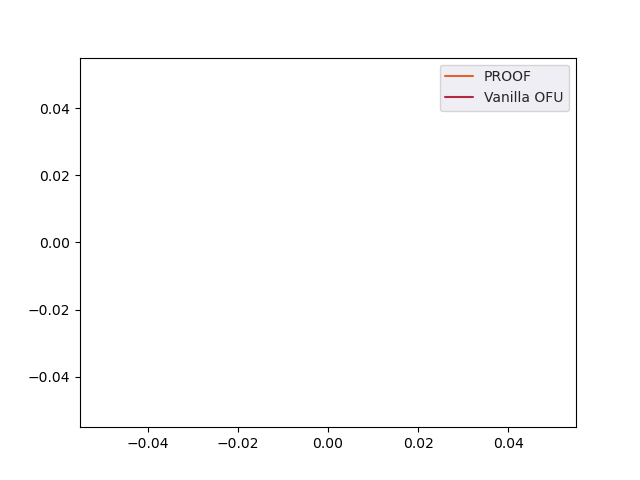
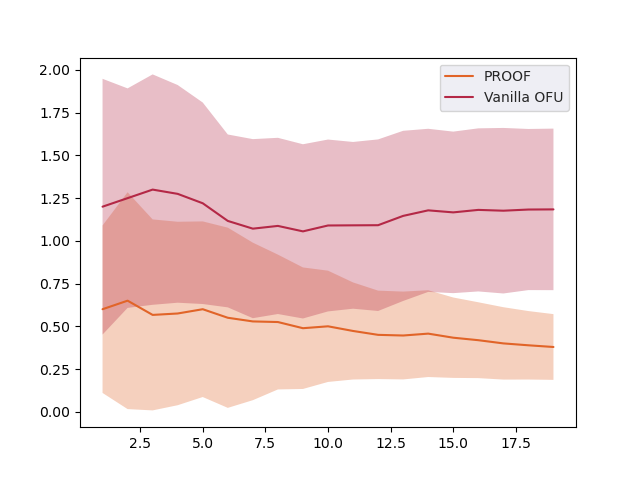
Created animated figure depicting matching process

diff --git a/train.py b/train.py
@@ -7,10 +7,32 @@ from data import P2PEnvironment
 import matplotlib.pyplot as plt
 from time import time
 import seaborn as sns
+from plots import *
+
+def get_cumsum(data):
+    mean = (np.nancumsum(data[:,:-1], axis=1)/range(1, config['num_epoch']-1)).mean(axis=0)
+    std = (np.nancumsum(data[:,:-1], axis=1)/range(1, config['num_epoch']-1)).std(axis=0)
+    
+    return mean, std
+
+def plot_data(data,labels,file_name):
+    fig, ax = plt.subplots()
+    results = [get_cumsum(i) for i in data]
+    results_mean, results_std = zip(*results)
+    results_mean = np.stack(results_mean)
+    results_std = np.stack(results_std)
+
+    with sns.axes_style("darkgrid"):
+        epochs = list(range(101))
+        for i in range(len(data)):
+            ax.plot(range(1, config['num_epoch']-1), results_mean[i,:], label=labels[i], c=nbc_palette[i])
+            ax.fill_between(range(1, config['num_epoch']-1), results_mean[i,:]-results_std[i,:], results_mean[i,:]+results_std[i,:] ,alpha=0.3, facecolor=nbc_palette[i])
+        ax.legend()
+    fig.savefig(file_name)
 
 config = {'alias': 'mlp_factor8neg4_bz256_166432168_pretrain_reg_0.0000001',
               'learning_alg': 'OLS',
-              'num_trial': 5,
+              'num_trial': 10,
               'points_per_iter': 20,
               'feature_dim': 20,
               'label_dim': 5,
@@ -19,7 +41,7 @@ config = {'alias': 'mlp_factor8neg4_bz256_166432168_pretrain_reg_0.0000001',
               'eta': 1e-4,
               'KA_norm': 10,
               'delta': 1e-1,
-              'num_epoch': 5,
+              'num_epoch': 21,
               'learn_iter': 500,
               'batch_size': 32,
               'optimizer': 'adam',
@@ -80,7 +102,7 @@ for trial_idx in range(config['num_trial']):
         regret_bandit[trial_idx, epoch-1] = ro_bandit.sum() + rb_bandit.sum() - ro_best.sum() - rb_best.sum()
         regret_match_bandit[trial_idx, epoch-1] = best_match_reward - bandit_match_reward
         regret_match_p2p[trial_idx, epoch-1] = best_match_reward - p2p_match_reward
-            
+        
         if epoch == config['num_epoch'] - 1:
             end_time = time()
             print('Epoch {} starts !'.format(epoch))
@@ -95,27 +117,6 @@ for trial_idx in range(config['num_trial']):
                                           [regret_p2p,regret_bandit,regret_p2p_o,regret_p2p_b]):
                 file_name = file_basename + algorithm + ".npy"
                 np.save(file_name,dataset)
-            
-def get_cumsum(data):
-    mean = (np.nancumsum(data[:,:-1], axis=1)/range(1, config['num_epoch']-1)).mean(axis=0)
-    std = (np.nancumsum(data[:,:-1], axis=1)/range(1, config['num_epoch']-1)).std(axis=0)
-    
-    return mean, std
-
-def plot_data(data,labels,file_name):
-    fig, ax = plt.subplots()
-    results = [get_cumsum(i) for i in data]
-    results_mean, results_std = zip(*results)
-    results_mean = np.stack(results_mean)
-    results_std = np.stack(results_std)
-
-    with sns.axes_style("darkgrid"):
-        epochs = list(range(101))
-        for i in range(len(data)):
-            ax.plot(range(1, config['num_epoch']-1), results_mean[i,:], label=labels[i], c=nbc_palette[i])
-            ax.fill_between(range(1, config['num_epoch']-1), results_mean[i,:]-results_std[i,:], results_mean[i,:]+results_std[i,:] ,alpha=0.3, facecolor=nbc_palette[i])
-        ax.legend()
-    fig.savefig(file_name)
 
 nbc_palette = ['#e16428', '#b42846', '#008cc3', '#00a846']
 sns.palplot(sns.color_palette(nbc_palette))

diff --git a/plots.py b/plots.py
@@ -1,0 +1,70 @@
+from matplotlib import pyplot as plt
+from matplotlib.animation import FuncAnimation
+import random
+import numpy as np
+
+def animate_function_process(i,c,action,mask):
+    plt.clf()
+
+    x = [i/2 for i in range(len(c[0]))]
+
+    final_labels = list(c[i//10]*action[i//10]*mask[i//10])
+    
+    y_labels = ["Available","Notified","Good match","Final Result"][::-1]
+    for j,dataset in enumerate([c[i//10],action[i//10],mask[i//10],final_labels][::-1]):
+        y_pos = [j for k in range(len(dataset))]
+        colors = ['r' if dataset[k] == 0 else 'b' for k in range(len(dataset))]
+        plt.scatter(x,y_pos,c=colors,s=200)
+        plt.text(x[0]-0.6,y_pos[0]-0.05,y_labels[j])
+
+    plt.xlim(-0.75,max(x)+0.2)
+    plt.title("Notification algorithm for task {}".format(i//10+1))
+
+
+def animation_function_matches(i,source_locations,destination_locations,matches,c,action,mask):
+    print("Calling with i {}".format(i))
+    if i<200:
+        if i%10 == 0:
+            animate_function_process(i,c,action,mask)
+        return 
+
+    i = i-200
+    
+    plt.clf()
+    plt.scatter([j[0] for j in source_locations], [j[1] for j in source_locations],s=100,c='b')
+    plt.scatter([j[0] for j in destination_locations], [j[1] for j in destination_locations],s=100,c='r')
+
+    all_match_points = []
+
+    for match in matches:
+        start = np.array(source_locations[match[0]])
+        end = np.array(destination_locations[match[1]])
+
+        current_point = start + min(i/50,1) * (end-start)
+        all_match_points.append(current_point)
+
+    plt.scatter([j[0] for j in all_match_points], [j[1] for j in all_match_points],s=10,c='black')
+
+
+def animate_matches(source_locations,destination_locations,matches,c,action,mask):
+    fig = plt.figure(figsize=(7,5))
+    num_epochs = 300
+    animation = FuncAnimation(fig, lambda s: animation_function_matches(s,
+        source_locations, destination_locations,matches, c,action,mask), 
+                              interval = num_epochs, frames=num_epochs)
+    
+    animation.save('figures/animation.gif', writer='imagemagick', fps=10)
+
+
+def make_movie(env,action,matches,c):
+    source_locations = env.source_locations
+    destination_locations = env.destination_locations
+    mask = env._m
+    
+    # Matches are between tasks and people
+    # So turn this into start-end 
+    new_matches = []
+    for i,j in matches:
+        new_matches.append((env.data_sources[i],env.data_destinations[i]))
+    
+    animate_matches(source_locations,destination_locations,new_matches,c,action,mask)
